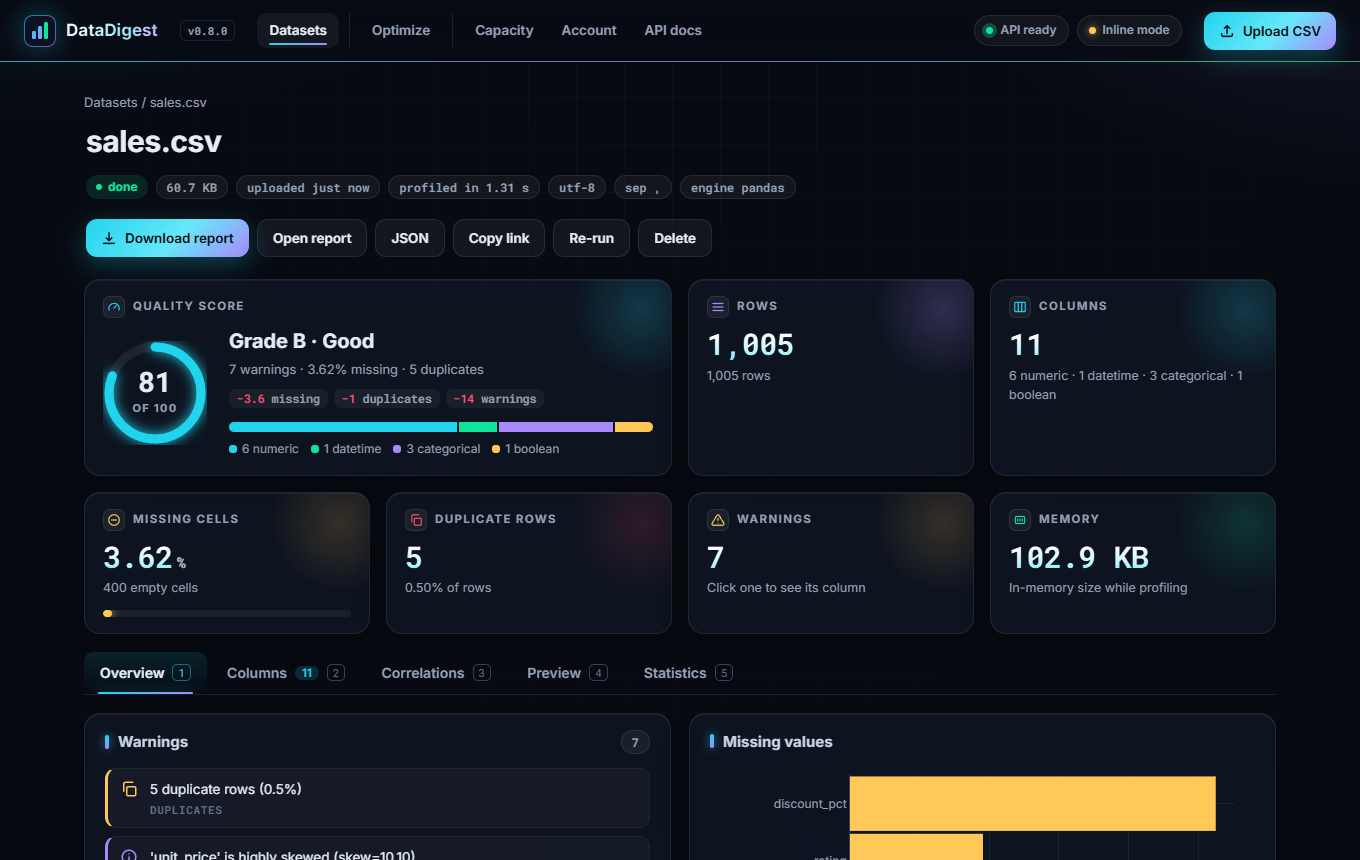
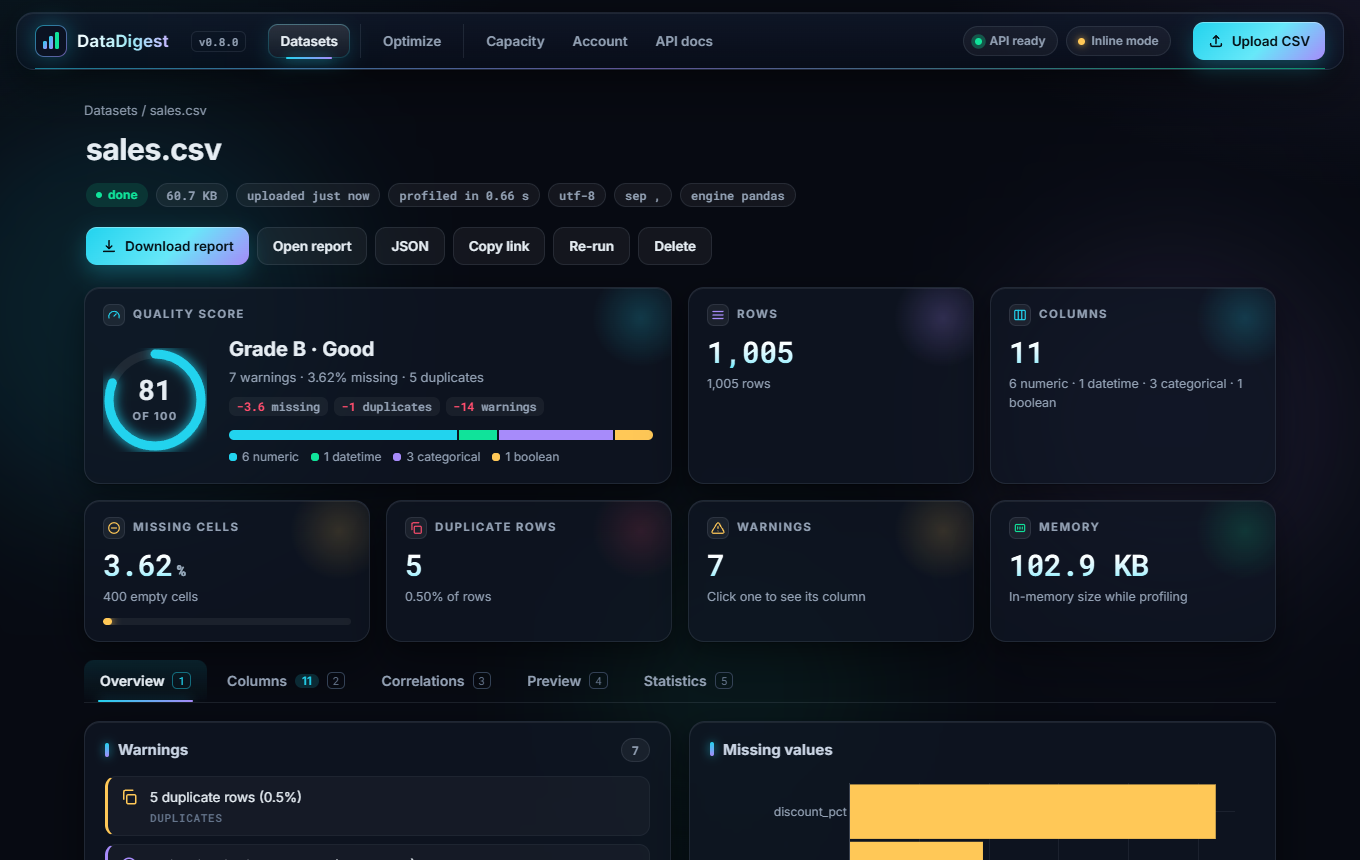
Add depth and directional page transitions to the interface
- Layered background: aurora, drifting orbs and a grid floor that recedes to
  a horizon, moving at different speeds with the pointer and the scroll
- The top bar floats above the page as a pane of glass
- Tiles, solver cards and section cards tilt towards the pointer; their
  contents lift to different heights while hovered
- Page changes follow their direction: sideways along the menu, a zoom in
  when opening a dataset or a result, a zoom out when going back
- A glass pill under the current menu entry follows the pointer and glides
  between entries while the page changes; tabs slide in from their side
- All motion is off with prefers-reduced-motion; tilt is off on phones
- Scripts and stylesheets are stamped with their modification time, so a
  browser never keeps an old stylesheet next to new markup
- CI: set SPARK_MIN_MB before the pods start in the Spark cluster job; a
  worker that was shutting down could take the job and profile it with pandas

diff --git a/datadigest/static/style.css b/datadigest/static/style.css
@@ -707,3 +707,180 @@ a.section-card:hover { text-decoration: none; border-color: var(--cyan); transfo
 .sitemap { display: flex; flex-wrap: wrap; justify-content: center; gap: 6px 22px; margin-bottom: 10px; font-size: 13px; }
 .sitemap b { color: var(--dim); font-weight: 600; margin-right: 6px; }
 .sitemap a[aria-current="page"] { color: var(--txt); }
+/* ── Depth and motion ────────────────────────────────────────────────────────
+   The page is built as layers at different distances: a far aurora, drifting orbs, a grid
+   floor that runs to a horizon, glass surfaces above them, and a bar that floats on top.
+   Layers move at different speeds with the pointer and the scroll (fx.js sets --px, --py
+   and --sy), which is what reads as depth. Moving between pages keeps that space: going
+   deeper zooms in, going back zooms out, and moving along the menu slides sideways.
+   Everything here is decoration: the prefers-reduced-motion rule above switches it off. */
+
+:root {
+  --px: 0; --py: 0; --sy: 0;
+  --lift-1: inset 0 1px 0 rgba(255, 255, 255, 0.07), 0 1px 1px rgba(0, 0, 0, 0.25), 0 8px 18px rgba(0, 0, 0, 0.22), 0 22px 48px rgba(0, 0, 0, 0.28);
+  --lift-2: inset 0 1px 0 rgba(255, 255, 255, 0.1), 0 2px 2px rgba(0, 0, 0, 0.25), 0 16px 30px rgba(0, 0, 0, 0.3), 0 40px 80px rgba(0, 0, 0, 0.38);
+  --spring: cubic-bezier(0.34, 1.4, 0.5, 1);
+  --glide: cubic-bezier(0.22, 1, 0.36, 1);
+}
+
+/* Layer 1 (farthest): the aurora drifts slowly and shifts a little against the pointer. */
+body::before { translate: calc(var(--px) * -14px) calc(var(--py) * -10px + var(--sy) * -0.02px); }
+
+/* Layer 2: three soft orbs, nearer than the aurora, so they move more. */
+.depth { position: fixed; inset: 0; z-index: -1; overflow: hidden; pointer-events: none; }
+.depth i {
+  position: absolute; border-radius: 50%; filter: blur(70px); opacity: 0.5; will-change: transform;
+  translate: calc(var(--px) * var(--k, 30) * -1px) calc(var(--py) * var(--k, 30) * -1px + var(--sy) * var(--s, -0.06) * 1px);
+  transition: translate 0.9s var(--glide);
+  animation: drift 26s ease-in-out infinite alternate;
+}
+.depth i:nth-child(1) { --k: 26; --s: -0.05; width: 420px; height: 420px; left: -6%; top: 12%; background: rgba(34, 211, 238, 0.22); }
+.depth i:nth-child(2) { --k: 44; --s: -0.11; width: 340px; height: 340px; right: 2%; top: 30%; background: rgba(167, 139, 250, 0.22); animation-duration: 32s; animation-delay: -8s; }
+.depth i:nth-child(3) { --k: 64; --s: -0.18; width: 260px; height: 260px; left: 42%; top: 68%; background: rgba(16, 227, 154, 0.16); animation-duration: 22s; animation-delay: -14s; }
+@keyframes drift { from { transform: translate3d(0, 0, 0) scale(1); } to { transform: translate3d(40px, -30px, 0) scale(1.12); } }
+
+/* Layer 3: the grid becomes a floor that recedes to a horizon. */
+body::after {
+  inset: auto -30% -18% -30%; height: 62vh; opacity: 0.55; background-size: 56px 56px; transform-origin: 50% 100%;
+  transform: perspective(700px) rotateX(64deg) translate3d(calc(var(--px) * -22px), 0, 0);
+  mask-image: linear-gradient(to top, #000 0%, rgba(0, 0, 0, 0.55) 35%, transparent 78%);
+  background-position: 0 calc(var(--sy) * 0.12px);
+}
+
+/* The bar floats above the page as a pane of glass, detached from the edges. */
+.topbar {
+  top: 12px; left: 16px; right: 16px; height: 58px; padding: 0 18px; border-radius: 18px; border: 1px solid var(--edge);
+  background: linear-gradient(180deg, rgba(18, 26, 42, 0.72), rgba(10, 15, 26, 0.62));
+  backdrop-filter: blur(22px) saturate(170%); box-shadow: var(--lift-1);
+  transition: background 0.35s, box-shadow 0.35s, top 0.35s var(--glide), left 0.35s var(--glide), right 0.35s var(--glide);
+}
+.topbar.scrolled {
+  top: 8px; background: linear-gradient(180deg, rgba(14, 20, 34, 0.9), rgba(8, 12, 22, 0.84)); box-shadow: var(--lift-2);
+}
+.topbar::after { left: 18px; right: 18px; bottom: 0; border-radius: 2px; opacity: 0.55; }
+.topbar::before { left: 18px; width: calc(100% - 36px); border-radius: 2px; }
+main { padding-top: 100px; }
+html { scroll-padding-top: 96px; }
+
+/* Menu: one glass pill sits under the current page. It glides to whatever link the pointer
+   is on, and because it has its own transition name it also glides from the old page's link
+   to the new page's link while the page changes. */
+.nav { position: relative; }
+.nav a { z-index: 1; }
+.nav.inked a.active, .nav.inked a:hover { background: transparent; }
+.nav.inked a::after { display: none; }
+.nav-ink {
+  position: absolute; left: 0; top: 50%; height: 34px; width: 0; margin-top: -17px; border-radius: 10px; pointer-events: none;
+  background: linear-gradient(180deg, rgba(255, 255, 255, 0.12), rgba(255, 255, 255, 0.04));
+  box-shadow: inset 0 1px 0 rgba(255, 255, 255, 0.16), inset 0 0 0 1px rgba(34, 211, 238, 0.22), 0 6px 18px rgba(34, 211, 238, 0.16);
+  transition: transform 0.5s var(--spring), width 0.5s var(--spring), opacity 0.3s;
+  view-transition-name: nav-ink;
+}
+.nav-ink::after {
+  content: ""; position: absolute; left: 22%; right: 22%; bottom: -1px; height: 2px; border-radius: 2px;
+  background: linear-gradient(90deg, var(--cyan), var(--violet)); box-shadow: 0 0 12px rgba(34, 211, 238, 0.8);
+}
+::view-transition-group(nav-ink) { animation-duration: 0.55s; animation-timing-function: var(--spring); }
+
+/* Surfaces: layered shadows, and small cards tilt towards the pointer (fx.js sets --rx, --ry).
+   Their contents sit at different heights, so the tilt separates icon, title and text. */
+.card, .tile, .kind-card, .section-card, .col, .drop { box-shadow: var(--lift-1); }
+.card:hover { box-shadow: var(--lift-2); }
+.bento, .kinds, .sections { perspective: 1100px; }
+.tile, .kind-card, .section-card {
+  --rx: 0deg; --ry: 0deg; --tz: 0px; transform-style: preserve-3d; will-change: transform;
+  transform: rotateX(var(--rx)) rotateY(var(--ry)) translate3d(0, 0, var(--tz));
+  transition: transform 0.6s var(--glide), border-color 0.35s, box-shadow 0.45s;
+}
+.tile.tilting, .kind-card.tilting, .section-card.tilting { transition: transform 0.12s linear, border-color 0.35s, box-shadow 0.45s; }
+.tile:hover, .kind-card:hover, a.section-card:hover, .section-card:hover {
+  --tz: 18px; transform: rotateX(var(--rx)) rotateY(var(--ry)) translate3d(0, 0, var(--tz));
+  box-shadow: var(--lift-2), 0 0 0 1px rgba(34, 211, 238, 0.16), 0 30px 70px rgba(34, 211, 238, 0.1);
+}
+/* Only while hovered: at rest everything lies flat, so text keeps its place inside the padding. */
+.tile > *, .kind-card > *, .section-card > * { transition: transform 0.6s var(--glide); }
+.tile:hover .lbl, .kind-card:hover .ico, .section-card:hover .ico { transform: translateZ(26px); }
+.tile:hover .v, .kind-card:hover h3, .section-card:hover strong { transform: translateZ(18px); }
+.tile:hover .s, .tile:hover .meter, .kind-card:hover p, .kind-card:hover .method, .section-card:hover .q,
+.section-card:hover .muted, .section-card:hover ul { transform: translateZ(8px); }
+.kind-card:hover .actions, .section-card:hover .btn, .section-card:hover .here { transform: translateZ(22px); }
+/* Lifted contents must not be clipped, so the corner glow is drawn inside the card instead of
+   being a circle that hangs outside it and relies on overflow: hidden. */
+.tile, .kind-card { overflow: visible; }
+.tile::after, .kind-card::after {
+  inset: 0; width: auto; height: auto; border-radius: inherit;
+  background: radial-gradient(70px circle at calc(100% - 30px) 30px, var(--tint, rgba(34, 211, 238, 0.2)), transparent 70%);
+}
+.section-card::before {                                     /* the pointer spotlight, like the other surfaces */
+  content: ""; position: absolute; inset: 0; border-radius: inherit; pointer-events: none; opacity: 0; transition: opacity 0.35s;
+  background: radial-gradient(420px circle at var(--mx, 50%) var(--my, 0%), rgba(34, 211, 238, 0.12), rgba(167, 139, 250, 0.06) 45%, transparent 70%);
+}
+.section-card { position: relative; }
+.section-card:hover::before { opacity: 1; }
+.btn.primary { box-shadow: inset 0 1px 0 rgba(255, 255, 255, 0.35), 0 8px 22px rgba(34, 211, 238, 0.28); }
+.btn.primary:hover { box-shadow: inset 0 1px 0 rgba(255, 255, 255, 0.45), 0 14px 34px rgba(34, 211, 238, 0.42); }
+
+/* Entrance: surfaces come forward out of the distance instead of only rising. */
+@keyframes arrive { from { opacity: 0; transform: translate3d(0, 22px, -80px) rotateX(8deg); filter: blur(6px); } }
+.tile, .kind-card, .section-card { animation: arrive 0.75s var(--glide) backwards; }
+.sections > :nth-child(1) { animation-delay: 0.1s; }
+.sections > :nth-child(2) { animation-delay: 0.18s; }
+.sections > :nth-child(3) { animation-delay: 0.26s; }
+.phead h1 { animation: headline 0.8s var(--glide) backwards; }
+@keyframes headline { from { opacity: 0; transform: translate3d(0, 10px, 0); letter-spacing: -0.03em; filter: blur(8px); } }
+
+/* Tabs: the pane slides in from the side the tab is on (fx.js sets data-dir on <main>). */
+.pane.active { animation: pane-in 0.5s var(--glide); }
+main[data-dir="back"] .pane.active { animation-name: pane-in-back; }
+@keyframes pane-in { from { opacity: 0; transform: translate3d(34px, 0, 0); filter: blur(5px); } }
+@keyframes pane-in-back { from { opacity: 0; transform: translate3d(-34px, 0, 0); filter: blur(5px); } }
+
+/* Moving between pages. The old page and the new one are two layers in the same space.
+   html[data-dir] is set before the first paint (see the inline script in each page's head):
+     forward / back   along the menu: the pages pass each other sideways, the old one receding
+     in / out         into a dataset or a result, and back out: a zoom through the page
+     (none)           anything else: the old page sinks back, the new one comes forward */
+::view-transition-old(root), ::view-transition-new(root) {
+  animation-duration: 0.5s; animation-timing-function: var(--glide); transform-origin: 50% 30%;
+}
+::view-transition-old(root) { animation-name: vt-sink; }
+::view-transition-new(root) { animation-name: vt-surface; }
+@keyframes vt-sink { to { opacity: 0; transform: scale(0.95); filter: blur(8px); } }
+@keyframes vt-surface { from { opacity: 0; transform: scale(1.04); filter: blur(8px); } }
+
+html[data-dir="forward"]::view-transition-old(root) { animation-name: vt-out-left; }
+html[data-dir="forward"]::view-transition-new(root) { animation-name: vt-in-right; }
+html[data-dir="back"]::view-transition-old(root) { animation-name: vt-out-right; }
+html[data-dir="back"]::view-transition-new(root) { animation-name: vt-in-left; }
+@keyframes vt-out-left { to { opacity: 0; transform: translate3d(-7%, 0, 0) scale(0.94); filter: blur(6px); } }
+@keyframes vt-in-right { from { opacity: 0; transform: translate3d(9%, 0, 0) scale(0.98); filter: blur(6px); } }
+@keyframes vt-out-right { to { opacity: 0; transform: translate3d(7%, 0, 0) scale(0.94); filter: blur(6px); } }
+@keyframes vt-in-left { from { opacity: 0; transform: translate3d(-9%, 0, 0) scale(0.98); filter: blur(6px); } }
+
+html[data-dir="in"]::view-transition-old(root) { animation-name: vt-pass-through; }
+html[data-dir="in"]::view-transition-new(root) { animation-name: vt-from-far; }
+html[data-dir="out"]::view-transition-old(root) { animation-name: vt-to-far; }
+html[data-dir="out"]::view-transition-new(root) { animation-name: vt-from-near; }
+@keyframes vt-pass-through { to { opacity: 0; transform: scale(1.12); filter: blur(10px); } }
+@keyframes vt-from-far { from { opacity: 0; transform: scale(0.9); filter: blur(10px); } }
+@keyframes vt-to-far { to { opacity: 0; transform: scale(0.9); filter: blur(10px); } }
+@keyframes vt-from-near { from { opacity: 0; transform: scale(1.12); filter: blur(10px); } }
+
+/* Dialogs come forward from behind the page; the page itself steps back. */
+.modal::backdrop { background: rgba(3, 6, 12, 0.66); backdrop-filter: blur(10px) saturate(120%); }
+.modal { box-shadow: var(--lift-2), 0 0 0 1px rgba(255, 255, 255, 0.06); }
+@keyframes modal-in { from { opacity: 0; transform: perspective(900px) translate3d(0, 24px, -120px) rotateX(10deg); filter: blur(6px); } }
+
+@media (max-width: 760px) {
+  .topbar { top: 8px; left: 8px; right: 8px; padding: 0 12px; }
+  main { padding-top: 88px; }
+  .depth i { filter: blur(50px); animation: none; }
+  .tile, .kind-card, .section-card { transform: none; }
+  .tile:hover, .kind-card:hover, .section-card:hover { transform: none; }
+  .tile:hover > *, .kind-card:hover > *, .section-card:hover > * { transform: none; }
+}
+@media (prefers-reduced-motion: reduce) {
+  @view-transition { navigation: none; }
+  .depth i, body::before, body::after { translate: none; }
+  .tile, .kind-card, .section-card { transform: none !important; }
+}

diff --git a/datadigest/static/fx.js b/datadigest/static/fx.js
@@ -46,6 +46,128 @@
     }, { passive: true });
   }
 
+  // Depth: background layers follow the pointer and the scroll at different speeds.
+  if (!calm) {
+    const layer = document.createElement("div");
+    layer.className = "depth";
+    layer.setAttribute("aria-hidden", "true");
+    layer.append(document.createElement("i"), document.createElement("i"), document.createElement("i"));
+    document.body.prepend(layer);
+    let queued = 0;
+    let px = 0, py = 0;
+    const apply = () => {
+      queued = 0;
+      root.style.setProperty("--px", px.toFixed(3));
+      root.style.setProperty("--py", py.toFixed(3));
+      root.style.setProperty("--sy", String(Math.round(window.scrollY)));
+    };
+    const ask = () => { if (!queued) queued = requestAnimationFrame(apply); };
+    if (fine) {
+      window.addEventListener("pointermove", (event) => {
+        px = event.clientX / window.innerWidth - 0.5;
+        py = event.clientY / window.innerHeight - 0.5;
+        ask();
+      }, { passive: true });
+    }
+    window.addEventListener("scroll", ask, { passive: true });
+  }
+
+  // Small cards tilt towards the pointer; their contents sit at different heights (see style.css).
+  if (fine && !calm) {
+    const TILT = ".tile, .kind-card, .section-card";
+    const MAX = 7;  // degrees
+    let current = null;
+    const rest = (card) => {
+      card.classList.remove("tilting");
+      card.style.setProperty("--rx", "0deg");
+      card.style.setProperty("--ry", "0deg");
+    };
+    document.addEventListener("pointermove", (event) => {
+      const card = event.target instanceof Element ? event.target.closest(TILT) : null;
+      if (current && current !== card) { rest(current); current = null; }
+      if (!card) return;
+      current = card;
+      const box = card.getBoundingClientRect();
+      const x = (event.clientX - box.left) / box.width - 0.5;
+      const y = (event.clientY - box.top) / box.height - 0.5;
+      card.classList.add("tilting");
+      card.style.setProperty("--ry", `${(x * 2 * MAX).toFixed(2)}deg`);
+      card.style.setProperty("--rx", `${(-y * 2 * MAX).toFixed(2)}deg`);
+    }, { passive: true });
+    document.addEventListener("pointerleave", () => { if (current) { rest(current); current = null; } });
+  }
+
+  // Menu: a glass pill under the current page that follows the pointer along the links.
+  const nav = document.querySelector(".nav");
+  if (nav) {
+    const ink = document.createElement("span");
+    ink.className = "nav-ink";
+    ink.setAttribute("aria-hidden", "true");
+    nav.prepend(ink);
+    const place = (link) => {
+      if (!link || !link.offsetWidth) { ink.style.opacity = "0"; return; }
+      const from = nav.getBoundingClientRect();
+      const to = link.getBoundingClientRect();
+      ink.style.opacity = "1";
+      ink.style.width = `${to.width}px`;
+      ink.style.transform = `translateX(${to.left - from.left}px)`;
+    };
+    const home = () => place(nav.querySelector("a.active"));
+    nav.classList.add("inked");
+    nav.addEventListener("pointerover", (event) => {
+      const link = event.target instanceof Element ? event.target.closest("a") : null;
+      if (link) place(link);
+    });
+    nav.addEventListener("pointerleave", home);
+    nav.addEventListener("focusin", (event) => place(event.target.closest("a")));
+    nav.addEventListener("focusout", home);
+    window.addEventListener("resize", home);
+    if (document.fonts && document.fonts.ready) document.fonts.ready.then(home);
+    home();
+  }
+
+  // Page changes know which way they are going, so the transition can match (style.css):
+  // along the menu is sideways, into a dataset or a result is a zoom in, back out is a zoom out.
+  const DEEP = /^\/(datasets|optimizations)\//;
+  const order = nav ? [...nav.querySelectorAll("a")].map((a) => a.pathname) : [];
+  const menuIndex = (path) => {
+    if (path.startsWith("/datasets/")) return order.indexOf("/");
+    if (path.startsWith("/optimizations/")) return order.indexOf("/optimize");
+    return order.indexOf(path);
+  };
+  function direction(from, to) {
+    if (DEEP.test(to) && !DEEP.test(from)) return "in";
+    if (DEEP.test(from) && !DEEP.test(to) && menuIndex(from) === menuIndex(to)) return "out";
+    const a = menuIndex(from), b = menuIndex(to);
+    if (a < 0 || b < 0 || a === b) return "";
+    return b > a ? "forward" : "back";
+  }
+  const remember = (to) => {
+    try { sessionStorage.setItem("dd-dir", direction(location.pathname, to)); } catch { /* private mode */ }
+  };
+  document.addEventListener("click", (event) => {
+    const link = event.target instanceof Element ? event.target.closest("a[href]") : null;
+    if (!link || link.target === "_blank" || link.origin !== location.origin || event.defaultPrevented) return;
+    if (link.pathname !== location.pathname) remember(link.pathname);
+  }, true);
+  // Pages that navigate from script (after an upload or a solve) go one level deeper.
+  window.addEventListener("pagehide", () => {
+    try { if (sessionStorage.getItem("dd-dir") === null) sessionStorage.setItem("dd-dir", "in"); } catch { /* private mode */ }
+  });
+
+  // Tabs slide in from the side the new tab is on.
+  document.querySelectorAll(".tabs").forEach((tabs) => {
+    const main = document.querySelector("main");
+    const index = () => [...tabs.querySelectorAll(".tab")].findIndex((t) => t.classList.contains("active"));
+    let last = index();
+    new MutationObserver(() => {
+      const now = index();
+      if (now === last || now < 0) return;
+      if (main && main.dataset.dir !== (now < last ? "back" : "forward")) main.dataset.dir = now < last ? "back" : "forward";
+      last = now;
+    }).observe(tabs, { attributes: true, attributeFilter: ["class"], subtree: true });
+  });
+
   // Tabs: one ink bar glides under the active tab.
   function inkTabs(tabs) {
     const ink = document.createElement("span");

diff --git a/datadigest/api/main.py b/datadigest/api/main.py
@@ -92,6 +92,13 @@ async def security_headers(request, call_next):
 app.mount("/static", StaticFiles(directory=STATIC), name="static")
 
 
+def asset_stamp() -> str:
+    """Changes whenever a script or stylesheet changes. The version alone is not enough: between
+    releases a browser would keep an old stylesheet next to new markup."""
+    newest = max(f.stat().st_mtime_ns for f in STATIC.iterdir() if f.suffix in {".css", ".js", ".svg"})
+    return format(newest // 1_000_000 % 0xFFFFFFFF, "x")
+
+
 def page(name: str, path: str) -> HTMLResponse:
     """A static page with the shared parts filled in: the navigation, the section cards and the
     footer links all come from datadigest/sections.py, so no page carries its own copy.
@@ -99,6 +106,7 @@ def page(name: str, path: str) -> HTMLResponse:
     HTML is revalidated on every visit; it references versioned assets (style.css?v=...),
     so a new release reaches browsers immediately instead of mixing old and new files."""
     html = (STATIC / name).read_text(encoding="utf-8")
+    html = html.replace(f"?v={app.version}", f"?v={app.version}-{asset_stamp()}")
     return HTMLResponse(sections.render(html, path), headers={"Cache-Control": "no-cache"})
 
 

diff --git a/datadigest/sections.py b/datadigest/sections.py
@@ -191,6 +191,14 @@ def openapi_tags() -> list[dict]:
     ]
 
 
+# Runs before the first paint, so the page transition (style.css) knows which way it is going:
+# the page we came from left the direction in sessionStorage (fx.js).
+DIRECTION_SCRIPT = (
+    "<script>try{document.documentElement.dataset.dir=sessionStorage.getItem('dd-dir')||'';"
+    "sessionStorage.removeItem('dd-dir')}catch(e){}</script>"
+)
+
+
 def render(html: str, path: str) -> str:
     """Fill a page's placeholders. Pages stay plain HTML files; only the shared parts are injected."""
     section = section_of(path)
@@ -198,4 +206,5 @@ def render(html: str, path: str) -> str:
         html.replace("<!--nav-->", nav_html(path))
         .replace("<!--sections-->", cards_html(section.key if section else ""))
         .replace("<!--sitemap-->", sitemap_html(path))
+        .replace("</head>", DIRECTION_SCRIPT + "\n</head>", 1)
     )

diff --git a/CHANGELOG.md b/CHANGELOG.md
@@ -26,6 +26,15 @@ sections under one roof.
 - **Optimization runs respect accounts.** A run belongs to its dataset: members see and change
   only the runs on their own datasets (somebody else's run answers `404`), administrators see
   all of them.
+- **Depth and motion.** The page is built as layers at different distances: an aurora, drifting
+  orbs and a grid floor that runs to a horizon move at different speeds with the pointer and the
+  scroll; the top bar floats above the page as a pane of glass; tiles and section cards tilt
+  towards the pointer with their contents at different heights. Moving between pages keeps that
+  space: along the menu the pages pass each other sideways, opening a dataset or a result zooms
+  in, going back zooms out, and a glass pill glides from the old menu entry to the new one. Tabs
+  slide in from the side they are on. All of it is switched off by `prefers-reduced-motion`.
+- Scripts and stylesheets are stamped with their modification time, so a browser never keeps an
+  old stylesheet next to new markup between releases.
 - `STATS_MAX_ROWS`: the number of rows the statistics are computed on (default 50,000).
 - `python -m datadigest`: migrate and serve in one command, with no other service to install.
 - The sign-in page shows its error messages in a styled box (they were unstyled).
